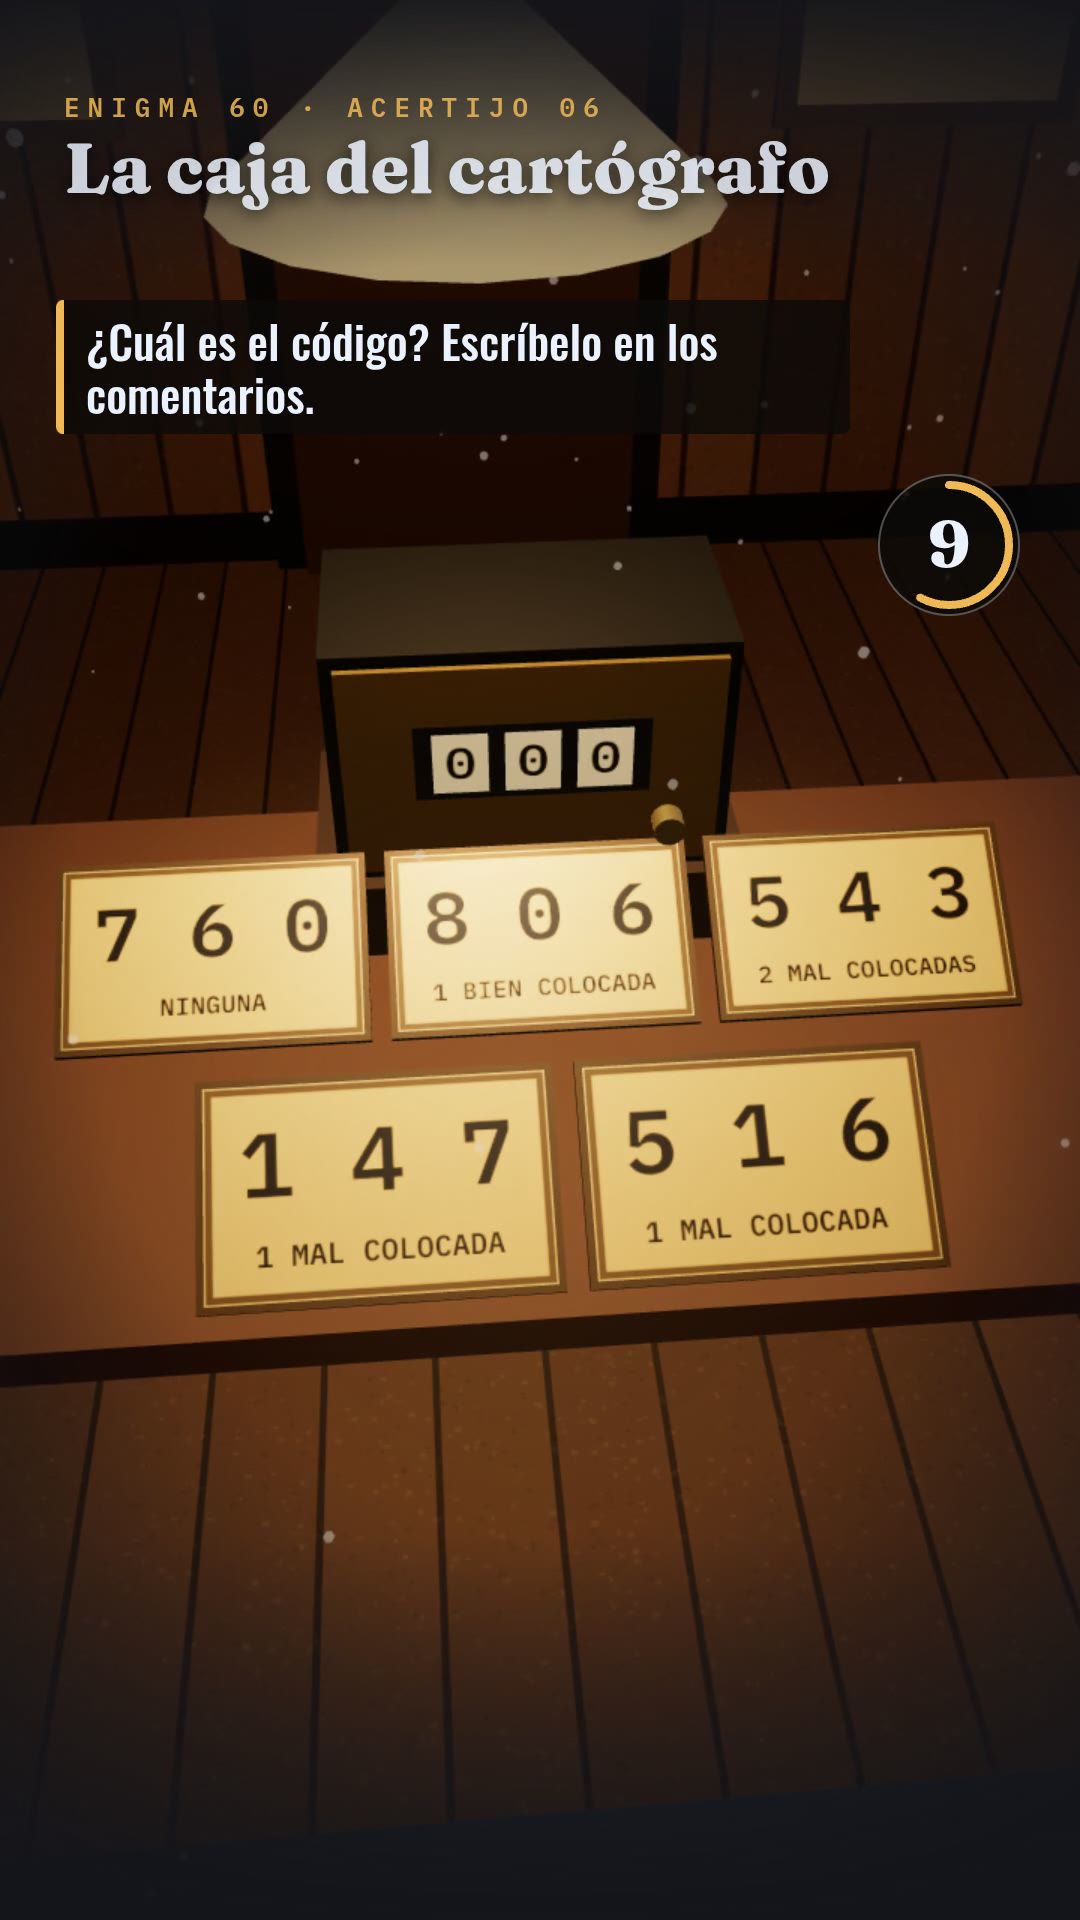
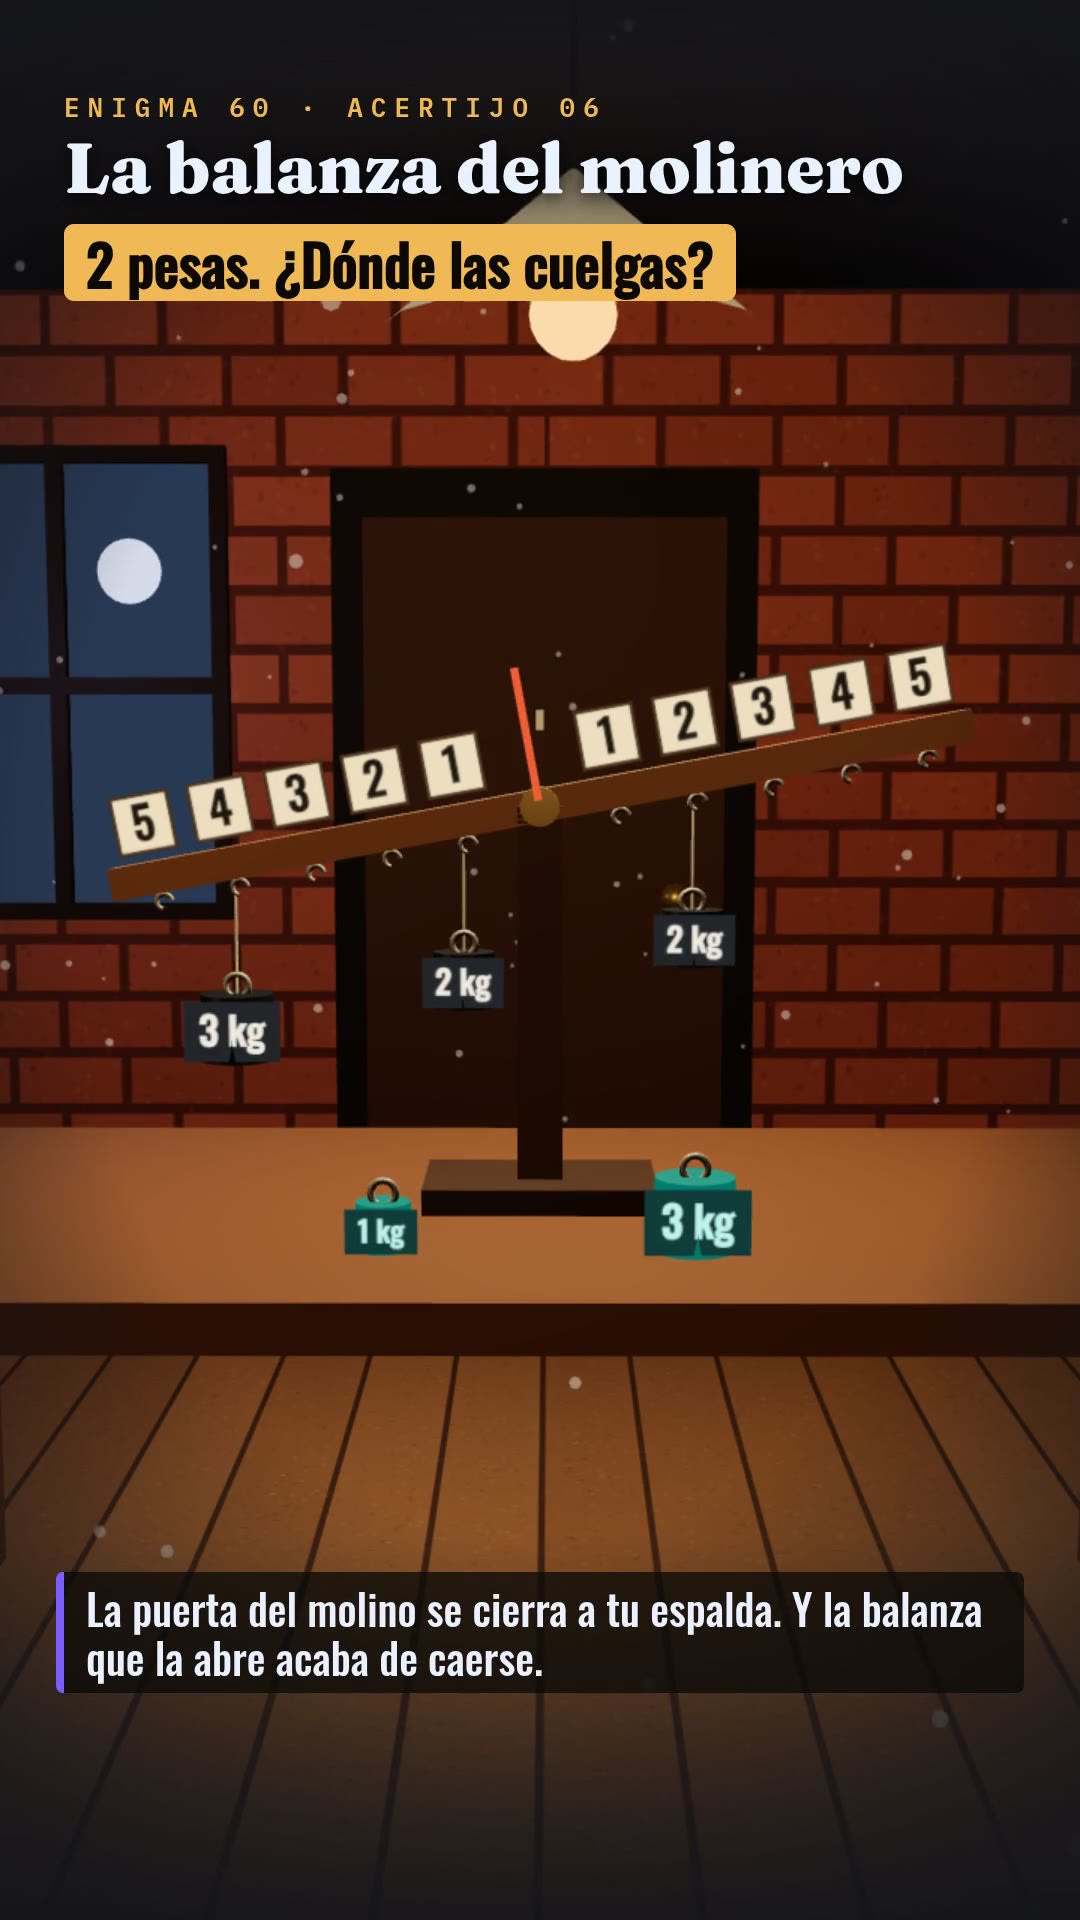
ENIGMA 60 · Dom 22/11 v2: metadatos del máster (run 44977470129, QA PASS 89,3 s, SHA 457a3191…), portada del segundo 1 y v1 archivada en publicacion/historial
Claude-Session: https://claude.ai/code/session_011iH4E4oPmcFamC6nWMqhiL

diff --git a/remotion/CALENDARIO.md b/remotion/CALENDARIO.md
@@ -23,7 +23,7 @@ Horas de publicación (Madrid): vídeo largo 17:00 · cortos y avances 18:00.
 | Jue 19 | Acertijo 9:16 «Las cerillas del relojero» (sala propia, E60CortoSala) | E60ES-AC-20261119 | v1 RECHAZADA el lun 16. Entregado v2 (lun 16 15:23, Telegram, 88,6 s, pendiente de APROBAR) |
 | Vie 20 | Acertijo 9:16 «Las jarras del boticario» (sala propia, E60CortoSala + Jarras3D) | E60ES-AC-20261120 | Entregado v1 (mar 17, Telegram, 97,3 s, pendiente de APROBAR; sustituye a la ficha 2D «Las cuatro velas») |
 | Sáb 21 | Serie «Profundidad 600», cap. 1 «La sala de lastre» (16:9, voz «Chatterbox expresiva», 4 puzles) + avance 9:16 | E60ES-S001-E01 / -AVANCE | Capítulo: Entregado v1 (vie 20, Telegram, 10:20, pendiente de APROBAR; fuera del plazo de 48 h). Avance: Pendiente (falta composición vertical de la serie) |
-| Dom 22 | Acertijo 9:16 **«La balanza del molinero»** v2 (sala propia almacen-molino-01, E60CortoSala + Balanza3D) | E60ES-AC-20261122 | v1 «La caja del cartógrafo» APROBACIÓN REVOCADA (21/11, cancelada en Upload-Post, se conserva). v2 NUEVA en render (dom 22 03:02), pendiente de entregar y APROBAR. Fuera del plazo de 48 h por el hueco |
+| Dom 22 | Acertijo 9:16 **«La balanza del molinero»** v2 (sala propia almacen-molino-01, E60CortoSala + Balanza3D) | E60ES-AC-20261122 | v1 «La caja del cartógrafo» APROBACIÓN REVOCADA (21/11, cancelada en Upload-Post, se conserva). v2 NUEVA renderizada (run 44977470129, QA PASS 89,3 s), pendiente de entregar y APROBAR. Fuera del plazo de 48 h por el hueco |
 
 
 ## Semana del 23/11/2026
